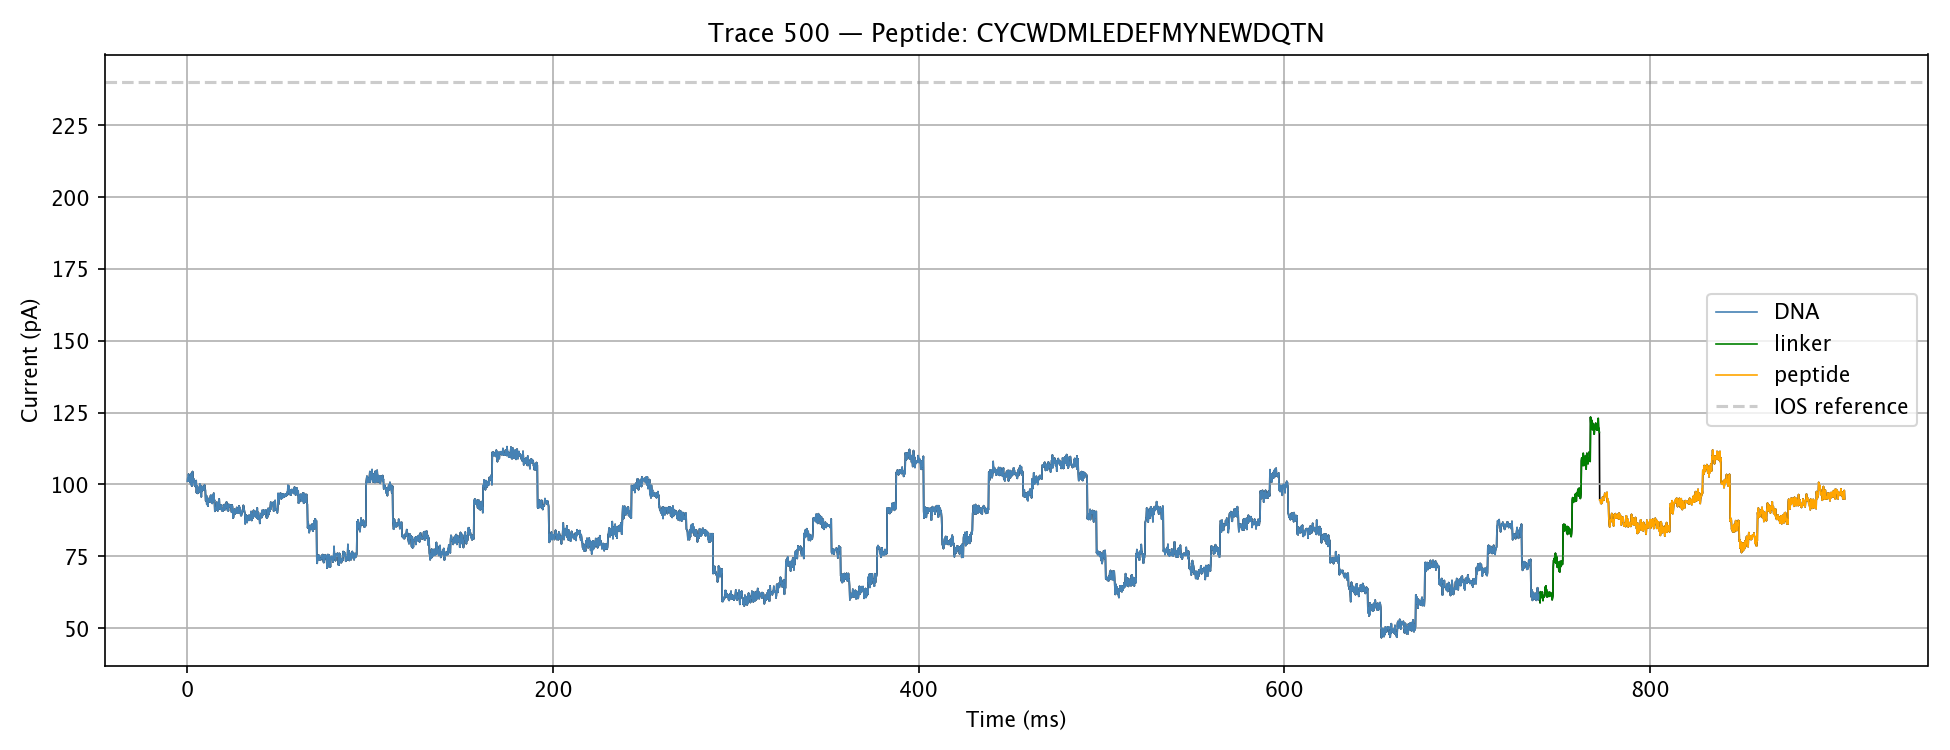
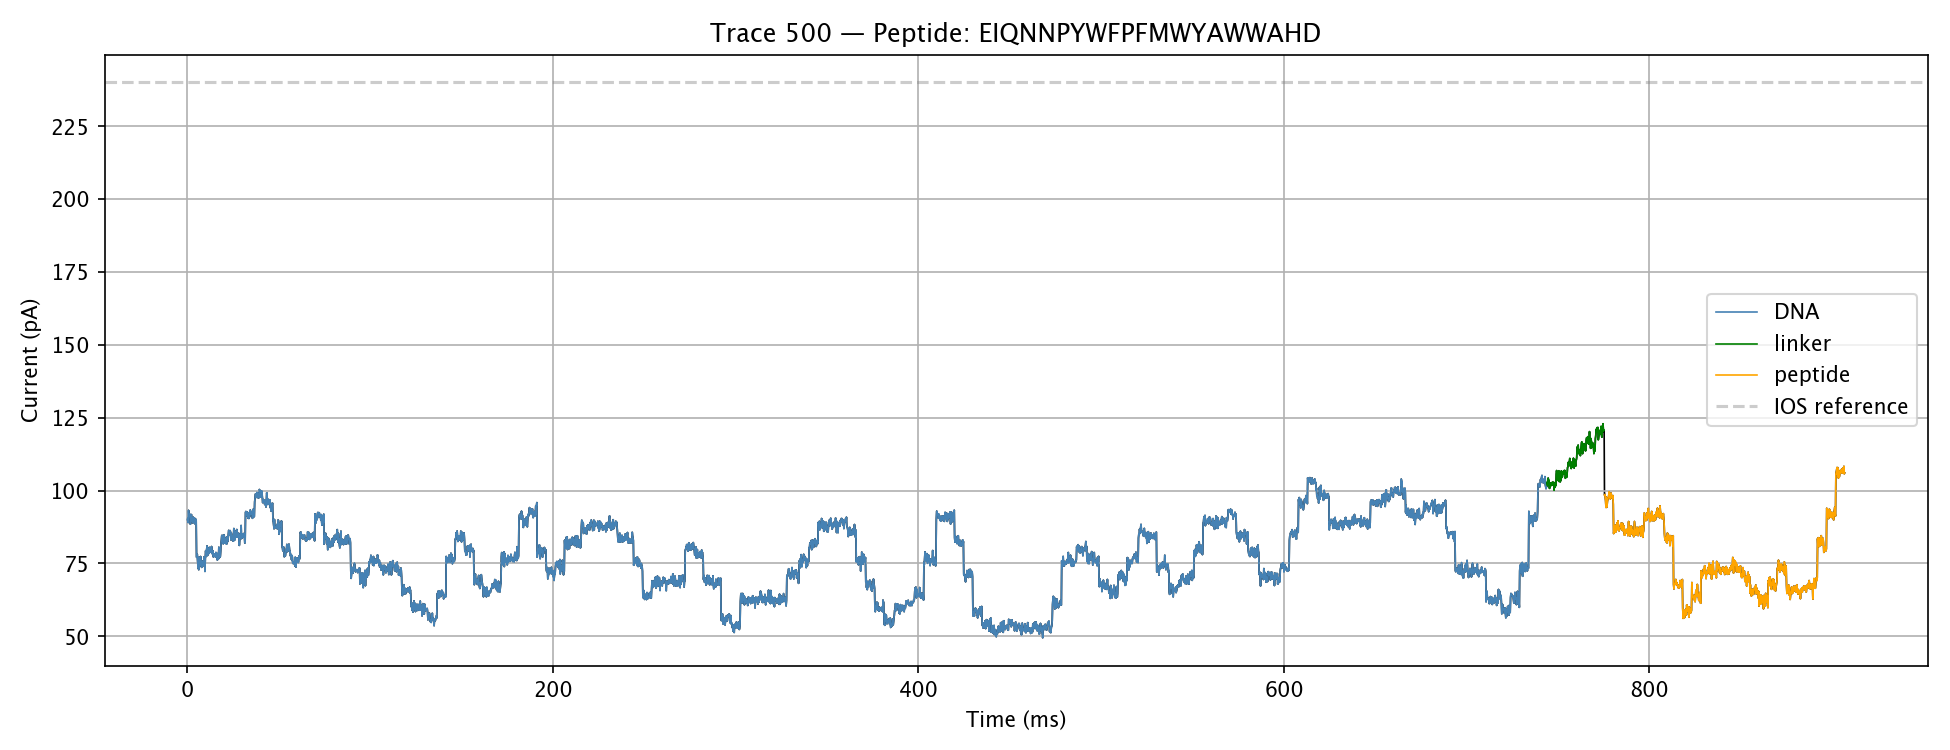
added hydrophobicity to simualted data, confusion matrix here should still be from before hydrophobicity was added, committing to document history

diff --git a/logic/database.py b/logic/database.py
@@ -13,6 +13,13 @@ import matplotlib.pyplot as plt
 import poreflow as pf
 from poreflow.steps import predict
 
+def linear_interpolation(target_min, target_max, scale_min, scale_max, dict):
+    scaled_dict = {}
+    for key, value in dict.items():
+        scaled_value = (((value - scale_min) * (target_max - target_min)) / (scale_max - scale_min)) + target_min
+        scaled_dict[key] = scaled_value
+    return scaled_dict
+
 # ─── Simulation Parameters ────────────────────────────────────────────────────
 
 IOS             = 240   # pA — open state current (lowered from 320 to match real data)
@@ -77,6 +84,32 @@ AA_CLASS = {
     'I': 'nonpolar', 'P': 'nonpolar', 'F': 'nonpolar', 'M': 'nonpolar',
     'W': 'nonpolar',
 }
+
+HYDROPHOBICITY_OG = {'A': 1.800,
+                'R': -4.500,
+                'N': -3.500,
+                'D': -3.500,
+                'C':  2.500,
+                'Q': -3.500,
+                'E': -3.500,
+                'G': -0.400,
+                'H': -3.200,
+                'I':  4.500,
+                'L':  3.800,
+                'K': -3.900,
+                'M':  1.900,
+                'F':  2.800,
+                'P': -1.600,
+                'S': -0.800,
+                'T': -0.700,
+                'W': -0.900,
+                'Y': -1.300,
+                'V':  4.200}
+
+HYDROPHICITY = linear_interpolation(0, 1, -4.5, 4.5, HYDROPHOBICITY_OG)
+for aa, val in HYDROPHICITY.items():
+    AA_PROPERTIES[aa]['hydrophobicity'] = val
+
 # ─── Codon Table (one codon per AA for simplicity) ───────────────────────────
 
 CODON_TABLE = {
@@ -85,6 +118,8 @@ CODON_TABLE = {
     'L': 'CTT', 'I': 'ATT', 'P': 'CCT', 'M': 'ATG', 'H': 'CAT',
     'K': 'AAA', 'R': 'CGT', 'F': 'TTT', 'Y': 'TAT', 'W': 'TGG',
 }
+
+
 
 # ─── Helper Functions ─────────────────────────────────────────────────────────
 
@@ -128,6 +163,7 @@ def simulate_linker_region(dna_end: float, pep_start: float) -> np.ndarray:
         samples.extend([level] * _dwell_samples())
     return np.array(samples)
 
+GAMMA = 15 #pA for hydrophobic effects
 
 def _compute_window_current(peptide: str, center_idx: int) -> float:
     """
@@ -138,28 +174,40 @@ def _compute_window_current(peptide: str, center_idx: int) -> float:
     ~3-5 amino acids simultaneously. Edge positions are clamped (boundary
     residue repeated) rather than zero-padded.
 
+    Three physicochemical properties contribute:
+        - Volume:         larger AA → more blockage (ALPHA term)
+        - Charge:         positive → decreases current, negative → increases (BETA term)
+        - Hydrophobicity: higher hydrophobicity → more blockage (GAMMA term)
+          Values are normalised Kyte-Doolittle scores [0,1].
+
     Returns current in pA.
     """
     pep_baseline = PEP_BASELINE * IOS
     n = len(peptide)
 
-    weighted_volume = 0.0
-    weighted_charge = 0.0
-    total_weight = 0.0
+    weighted_volume        = 0.0
+    weighted_charge        = 0.0
+    weighted_hydrophobicity = 0.0
+    total_weight           = 0.0
 
     for d in range(-WINDOW_HALF, WINDOW_HALF + 1):
-        idx = max(0, min(n - 1, center_idx + d))  # clamp to valid range
-        aa = peptide[idx]
+        idx = max(0, min(n - 1, center_idx + d))
+        aa  = peptide[idx]
         weight = np.exp(-d ** 2 / 2.0)
-        weighted_volume += weight * AA_PROPERTIES[aa]['volume']
-        weighted_charge += weight * AA_PROPERTIES[aa]['charge']
-        total_weight += weight
 
-    weighted_volume /= total_weight
-    weighted_charge /= total_weight
+        weighted_volume         += weight * AA_PROPERTIES[aa]['volume']
+        weighted_charge         += weight * AA_PROPERTIES[aa]['charge']
+        weighted_hydrophobicity += weight * AA_PROPERTIES[aa]['hydrophobicity']
+        total_weight            += weight
 
-    return pep_baseline - ALPHA * weighted_volume - BETA * weighted_charge
+    weighted_volume         /= total_weight
+    weighted_charge         /= total_weight
+    weighted_hydrophobicity /= total_weight
 
+    return (pep_baseline
+            - ALPHA * weighted_volume
+            - BETA  * weighted_charge
+            - GAMMA * weighted_hydrophobicity)
 
 def simulate_peptide_region(peptide: str) -> np.ndarray:
     """

diff --git a/kyte_hydrophobicity_conversion.py b/kyte_hydrophobicity_conversion.py
@@ -1,0 +1,22 @@
+hydropath_dict= {'A': 1.800,
+                'R': -4.500,
+                'N': -3.500,
+                'D': -3.500,
+                'C':  2.500,
+                'Q': -3.500,
+                'E': -3.500,
+                'G': -0.400,
+                'H': -3.200,
+                'I':  4.500,
+                'L':  3.800,
+                'K': -3.900,
+                'M':  1.900,
+                'F':  2.800,
+                'P': -1.600,
+                'S': -0.800,
+                'T': -0.700,
+                'W': -0.900,
+                'Y': -1.300,
+                'V':  4.200}
+
+print("Kyte-Doolittle Hydrophobicity Scale:", hydropath_dict)

diff --git a/logic/linear_interpolation.py b/logic/linear_interpolation.py
@@ -1,0 +1,8 @@
+
+
+def linear_interpolation(target_min: int, target_max: int, scale_min: float, scale_max: float, dict: dict):
+    scaled_dict = {}
+    for key, value in dict.items():
+        scaled_value = (((value - scale_min) * (target_max - target_min)) / (scale_max - scale_min)) + target_min
+        scaled_dict[key] = scaled_value
+    return scaled_dict